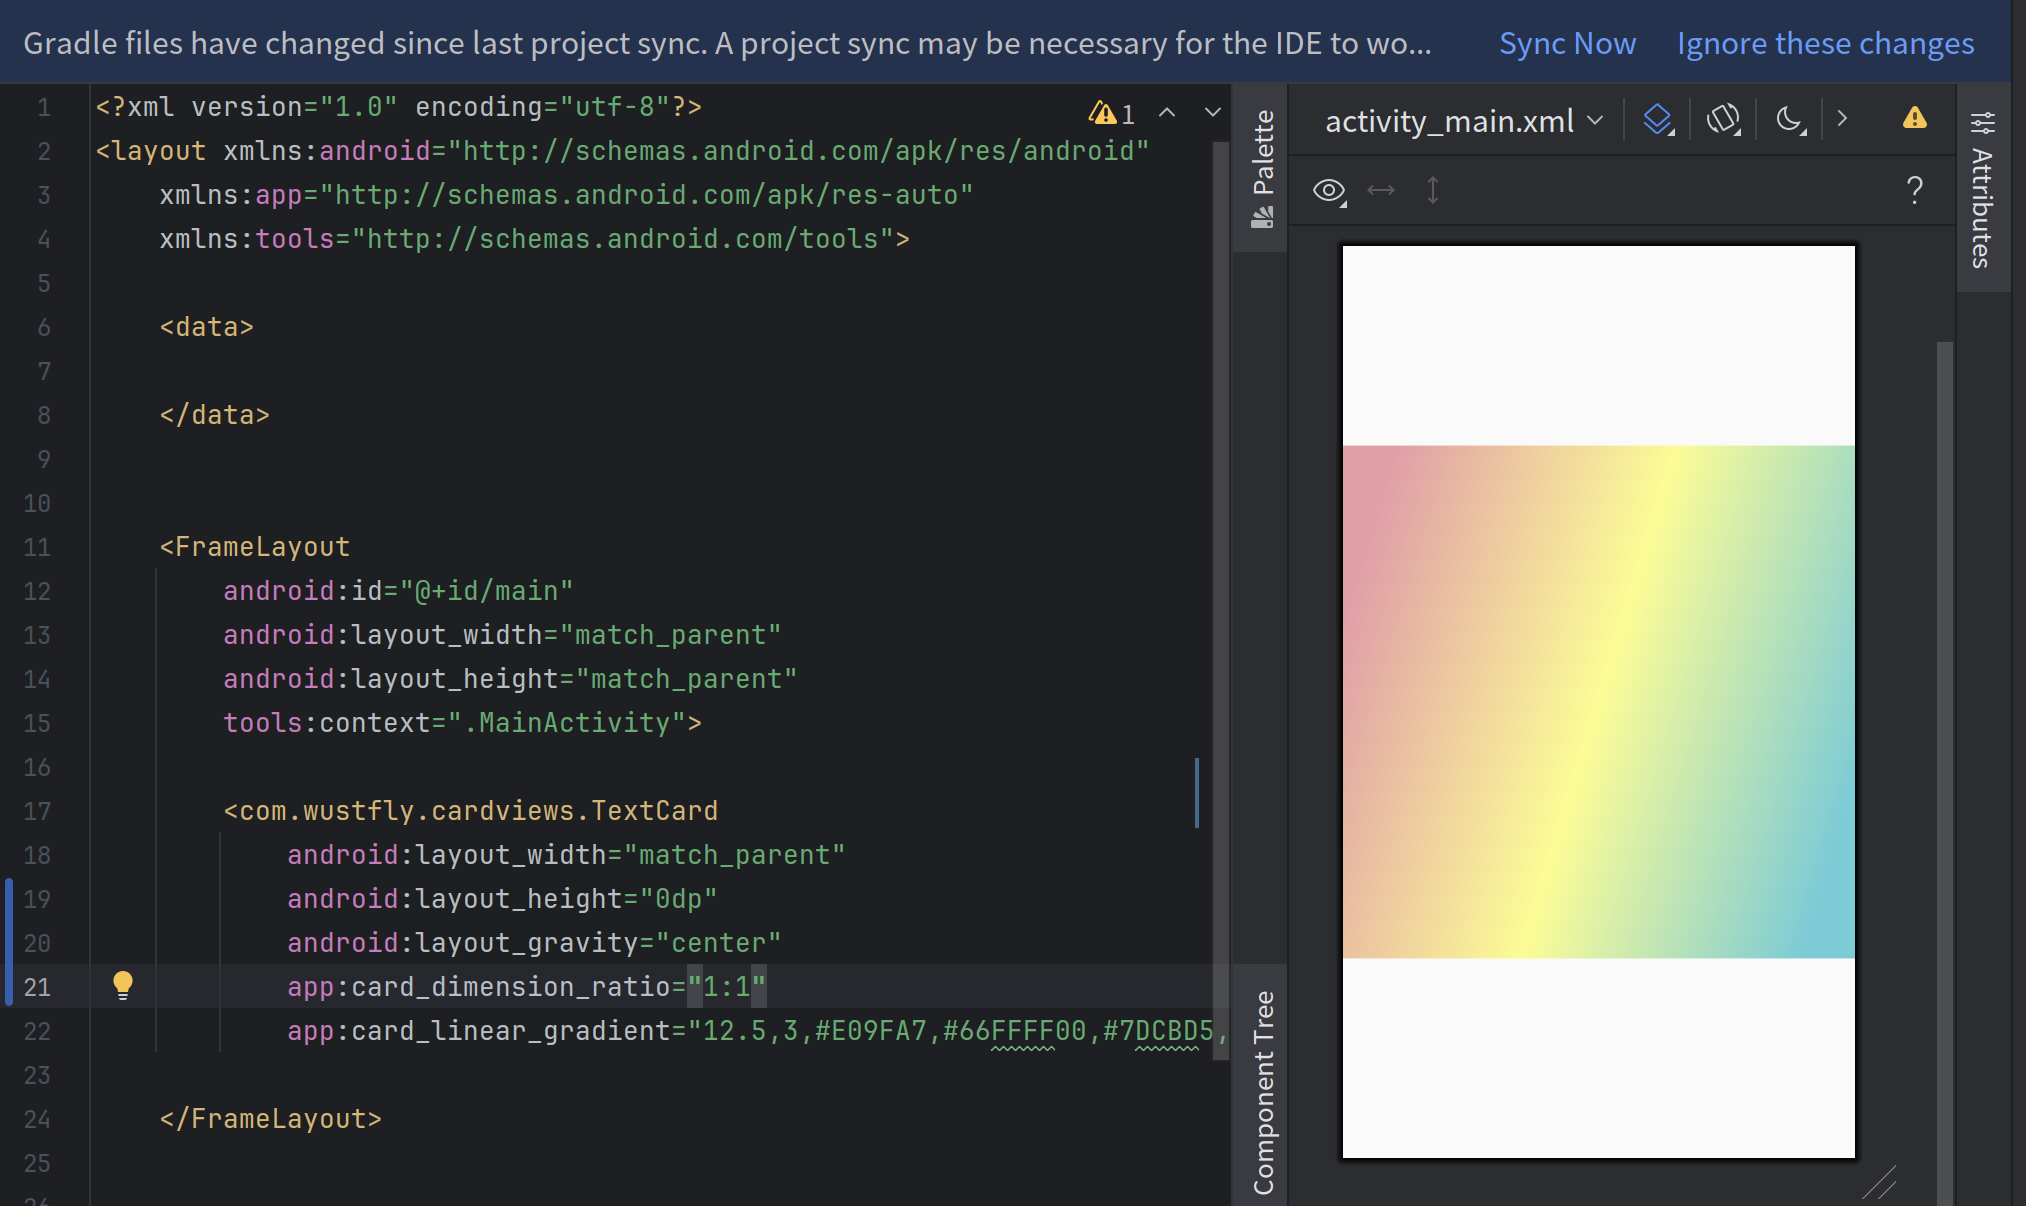
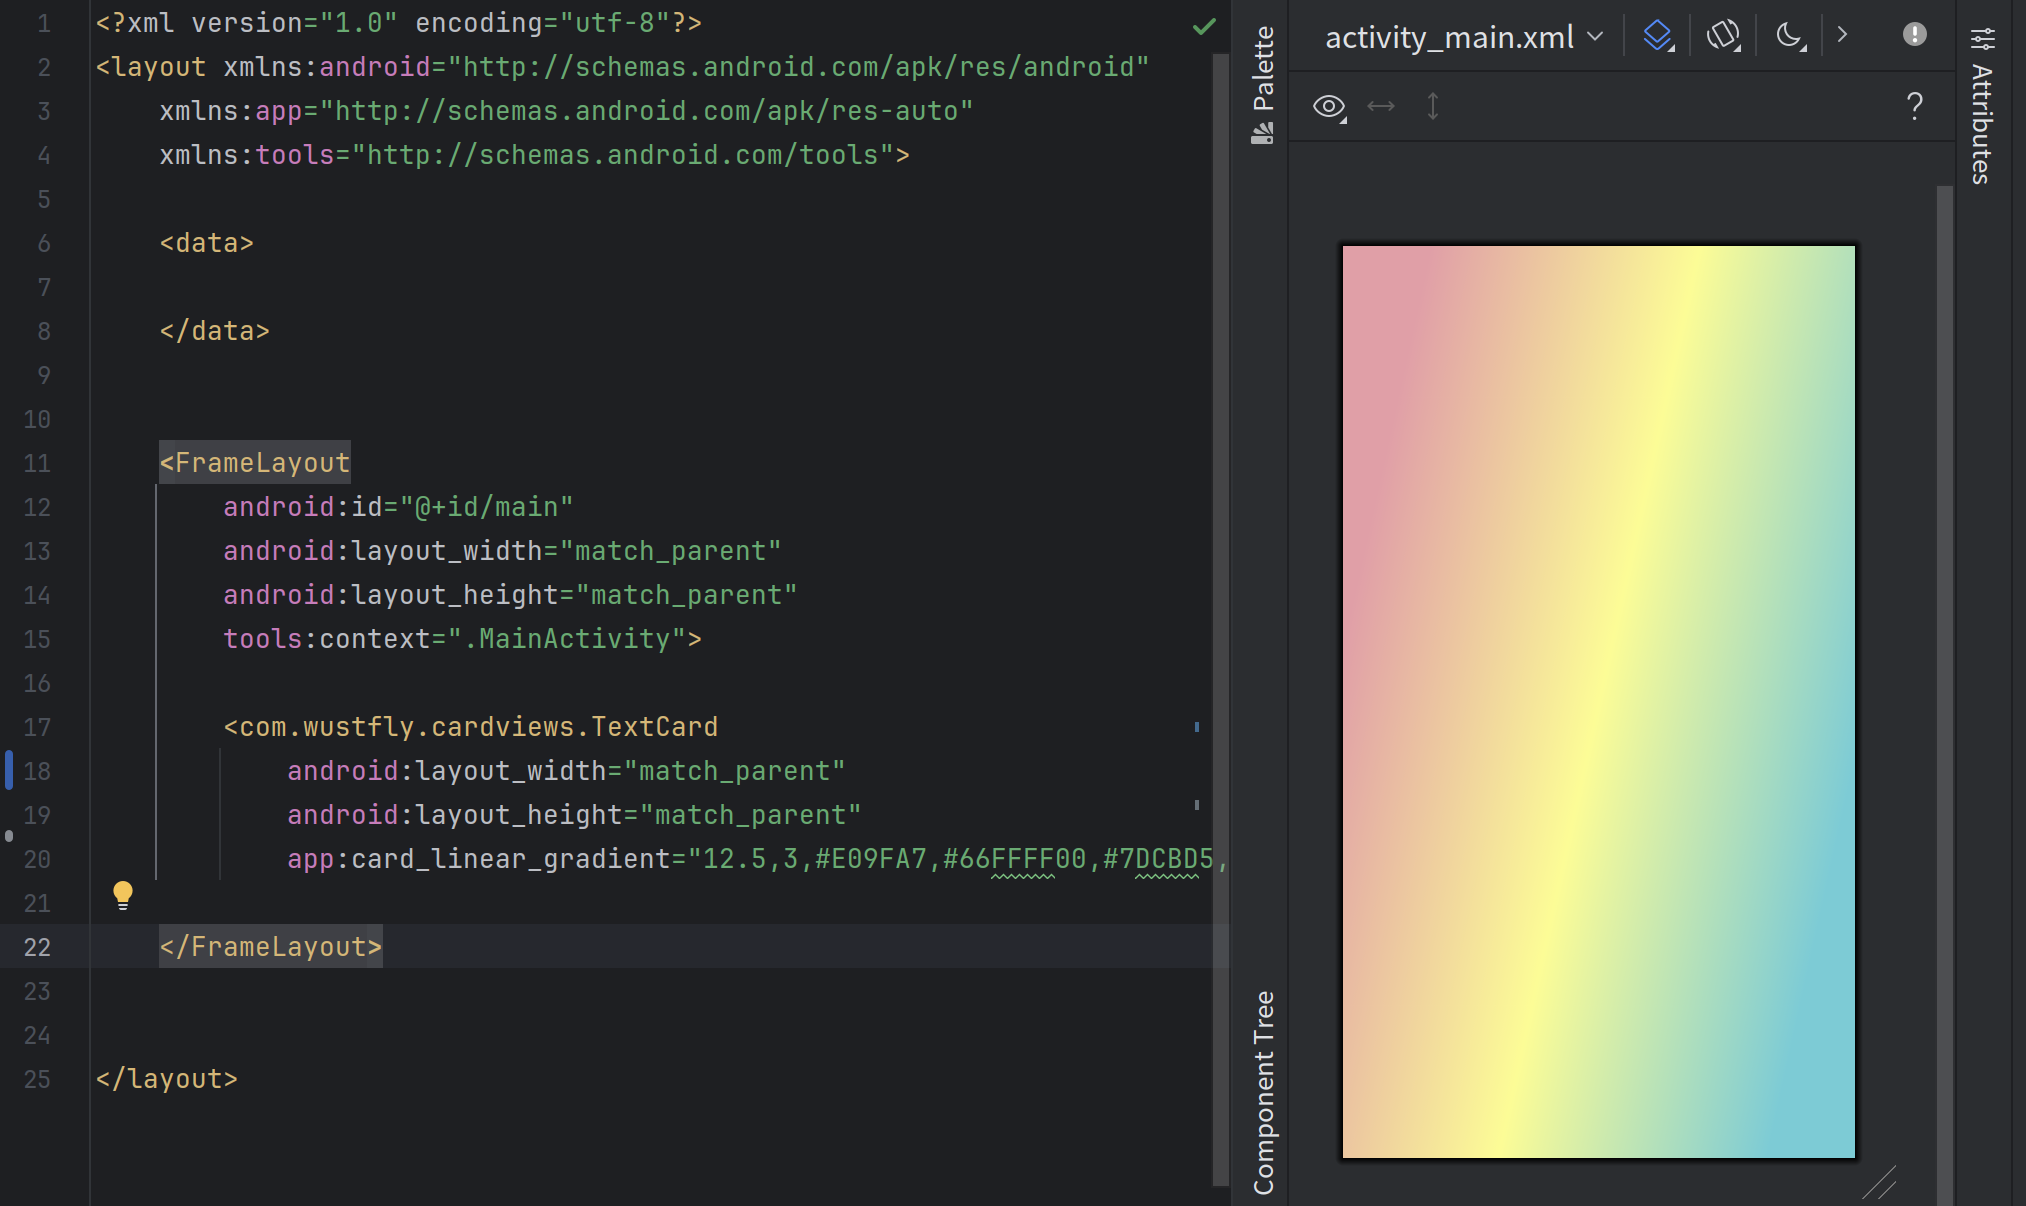
#

diff --git a/lib/src/main/java/com/wustfly/cardviews/Card.kt b/lib/src/main/java/com/wustfly/cardviews/Card.kt
@@ -78,6 +78,9 @@ class Card(val view: View, attrs: AttributeSet) {
 
     private var bg: Drawable? = null
 
+    private var width = 0
+    private var height = 0
+
     init {
         val ta = view.context.obtainStyledAttributes(attrs, R.styleable.Card)
         radius = ta.getDimension(R.styleable.Card_card_radius, 0f)
@@ -133,76 +136,88 @@ class Card(val view: View, attrs: AttributeSet) {
                 LEFT_RIGHT -> {
                     x1 = 0f
                     y1 = 0f
-                    x2 = view.measuredWidth.toFloat()
+                    x2 = width.toFloat()
                     y2 = 0f
                 }
 
                 LT_RB -> {
                     x1 = 0f
                     y1 = 0f
-                    x2 = view.measuredWidth.toFloat()
-                    y2 = view.measuredHeight.toFloat()
+                    x2 = width.toFloat()
+                    y2 = height.toFloat()
                 }
 
                 TOP_BOTTOM -> {
                     x1 = 0f
                     y1 = 0f
                     x2 = 0f
-                    y2 = view.measuredHeight.toFloat()
+                    y2 = height.toFloat()
                 }
 
                 RT_LB -> {
-                    x1 = view.measuredWidth.toFloat()
+                    x1 = width.toFloat()
                     y1 = 0f
                     x2 = 0f
-                    y2 = view.measuredHeight.toFloat()
+                    y2 = height.toFloat()
                 }
 
                 RIGHT_LEFT -> {
-                    x1 = view.measuredWidth.toFloat()
+                    x1 = width.toFloat()
                     y1 = 0f
                     x2 = 0f
                     y2 = 0f
                 }
 
                 RB_LT -> {
-                    x1 = view.measuredWidth.toFloat()
-                    y1 = view.measuredHeight.toFloat()
+                    x1 = width.toFloat()
+                    y1 = height.toFloat()
                     x2 = 0f
                     y2 = 0f
                 }
 
                 BOTTOM_TOP -> {
                     x1 = 0f
-                    y1 = view.measuredHeight.toFloat()
+                    y1 = height.toFloat()
                     x2 = 0f
                     y2 = 0f
                 }
 
                 LB_RT -> {
                     x1 = 0f
-                    y1 = view.measuredHeight.toFloat()
-                    x2 = view.measuredWidth.toFloat()
+                    y1 = height.toFloat()
+                    x2 = width.toFloat()
                     y2 = 0f
                 }
 
                 else -> {
                     val degree = orientation.toFloat() * Math.PI / 180f
 
-                    val r = sqrt(
-                        view.measuredWidth.toDouble().pow(2.0) + view.measuredHeight.toDouble()
-                            .pow(2.0)
-                    )
+                    val r = sqrt(width.toDouble().pow(2.0) + height.toDouble().pow(2.0))
 
-                    val x = (r * cos(degree) / 2).toFloat()
-                        .let { if (abs(it) < view.measuredWidth / 2f) it else sign(it) * (view.measuredWidth / 2f) }
+                    var x: Float
+                    var y: Float
+
+                    (r * cos(degree) / 2).toFloat().let {
+
+                        if (abs(it) > width / 2f) {
+                            x = sign(cos(degree).toFloat()) * (width / 2f)
+                            y = (x * tan(degree)).toFloat()
+                        } else {
+                            y = sign(sin(degree).toFloat()) * (height / 2f)
+                            x = (y / tan(degree)).toFloat()
+                        }
+
+                    }
+
+            /*        val x = (r * cos(degree) / 2).toFloat()
+                        .let { if (abs(it) < width / 2f) it else sign(it) * (width / 2f) }
                     val y = (r * sin(degree) / 2).toFloat()
-                        .let { if (abs(it) < view.measuredHeight / 2f) it else sign(it) * (view.measuredHeight / 2f) }
+                        .let { if (abs(it) < height / 2f) it else sign(it) * (height / 2f) }*/
 
-                    x1 = view.measuredWidth / 2f - x
-                    y1 = view.measuredHeight / 2f - y
-                    x2 = view.measuredWidth / 2f + x
-                    y2 = view.measuredHeight / 2f + y
+                    x1 = width / 2f - x
+                    y1 = height / 2f - y
+                    x2 = width / 2f + x
+                    y2 = height / 2f + y
                 }
             }
 
@@ -236,6 +251,8 @@ class Card(val view: View, attrs: AttributeSet) {
     }
 
     fun onMeasure(setSize: (w: Int, h: Int) -> Unit) {
+        width = view.measuredWidth
+        height = view.measuredHeight
         if (dimensionRatio.isNotEmpty()) {
             kotlin.runCatching {
                 val h = view.measuredHeight
@@ -245,6 +262,8 @@ class Card(val view: View, attrs: AttributeSet) {
 
                 if (h == 0) {
                     setSize(w, (w * rh / rw).toInt())
+                    width = w
+                    height = (w * rh / rw).toInt()
                     if (view is ViewGroup) {
                         view.layoutParams.width = w
                         view.layoutParams.height = (w * rh / rw).toInt()
@@ -252,6 +271,8 @@ class Card(val view: View, attrs: AttributeSet) {
                     }
                 } else if (w == 0) {
                     setSize((h * rw / rh).toInt(), h)
+                    width = (h * rw / rh).toInt()
+                    height = h
                     if (view is ViewGroup) {
                         view.layoutParams.width = (h * rw / rh).toInt()
                         view.layoutParams.height = h
@@ -658,7 +679,11 @@ class Card(val view: View, attrs: AttributeSet) {
     }
 
     private fun dpToPx(dp: Float, context: Context): Int {
-        return TypedValue.applyDimension(TypedValue.COMPLEX_UNIT_DIP, dp, context.resources.displayMetrics).toInt()
+        return TypedValue.applyDimension(
+            TypedValue.COMPLEX_UNIT_DIP,
+            dp,
+            context.resources.displayMetrics
+        ).toInt()
     }
 
 }

diff --git a/README.md b/README.md
@@ -25,19 +25,35 @@
     
     示例:
     ```
-    <com.wustfly.cardviews.TextCard
+    <FrameLayout
+        android:id="@+id/main"
         android:layout_width="match_parent"
         android:layout_height="match_parent"
-        app:card_linear_gradient="LEFT_RIGHT,2,#E09FA7,#7DCBD5,2,0,1" />
-    ```
-    ![img_2.png](pics/img_2.png)
-    ```
-    <com.wustfly.cardviews.TextCard
-        android:layout_width="match_parent"
-        android:layout_height="match_parent"
-        app:card_linear_gradient="12.5,3,#E09FA7,#66FFFF00,#7DCBD5,3,0,0.5,1" />
+        tools:context=".MainActivity">
+
+        <com.wustfly.cardviews.TextCard
+            android:layout_width="match_parent"
+            android:layout_height="match_parent"
+            app:card_linear_gradient="LEFT_RIGHT,2,#E09FA7,#7DCBD5,2,0,1" />
+
+    </FrameLayout>
     ```
     ![img.png](pics/img.png)
+    ```
+    <FrameLayout
+        android:id="@+id/main"
+        android:layout_width="match_parent"
+        android:layout_height="match_parent"
+        tools:context=".MainActivity">
+
+        <com.wustfly.cardviews.TextCard
+            android:layout_width="match_parent"
+            android:layout_height="match_parent"
+            app:card_linear_gradient="12.5,3,#E09FA7,#66FFFF00,#7DCBD5,3,0,0.5,1" />
+
+    </FrameLayout>
+    ```
+    ![img_1.png](pics/img_1.png)
 
 - 固定高宽比View
 
@@ -67,7 +83,7 @@
 
     </FrameLayout>
     ```
-    ![img_1.png](pics/img_1.png)
+    ![img_2.png](pics/img_2.png)
     ```
     <FrameLayout
         android:id="@+id/main"
@@ -84,4 +100,37 @@
 
     </FrameLayout>
     ```
-   ![img_3.png](pics/img_3.png)
+    ![img_3.png](pics/img_3.png)
+    配合LinearLayout的layout_weight属性做比例布局
+    ```
+    <LinearLayout
+        android:id="@+id/main"
+        android:layout_width="match_parent"
+        android:layout_height="match_parent"
+        android:orientation="horizontal"
+        tools:context=".MainActivity">
+
+        <com.wustfly.cardviews.TextCard
+            android:layout_width="0dp"
+            android:layout_height="0dp"
+            android:layout_weight="1"
+            app:card_linear_gradient="LEFT_RIGHT,2,#E09FA7,#7DCBD5,2,0,1"
+            app:card_dimension_ratio="1:1" />
+
+        <com.wustfly.cardviews.TextCard
+            android:layout_width="0dp"
+            android:layout_height="0dp"
+            android:layout_weight="2"
+            app:card_linear_gradient="LEFT_RIGHT,2,#E09FA7,#7DCBD5,2,0,1"
+            app:card_dimension_ratio="1:1" />
+
+        <com.wustfly.cardviews.TextCard
+            android:layout_width="0dp"
+            android:layout_height="0dp"
+            android:layout_weight="4"
+            app:card_linear_gradient="LEFT_RIGHT,2,#E09FA7,#7DCBD5,2,0,1"
+            app:card_dimension_ratio="1:1" />
+
+    </LinearLayout>
+    ```
+    ![img_4.png](pics/img_4.png)
